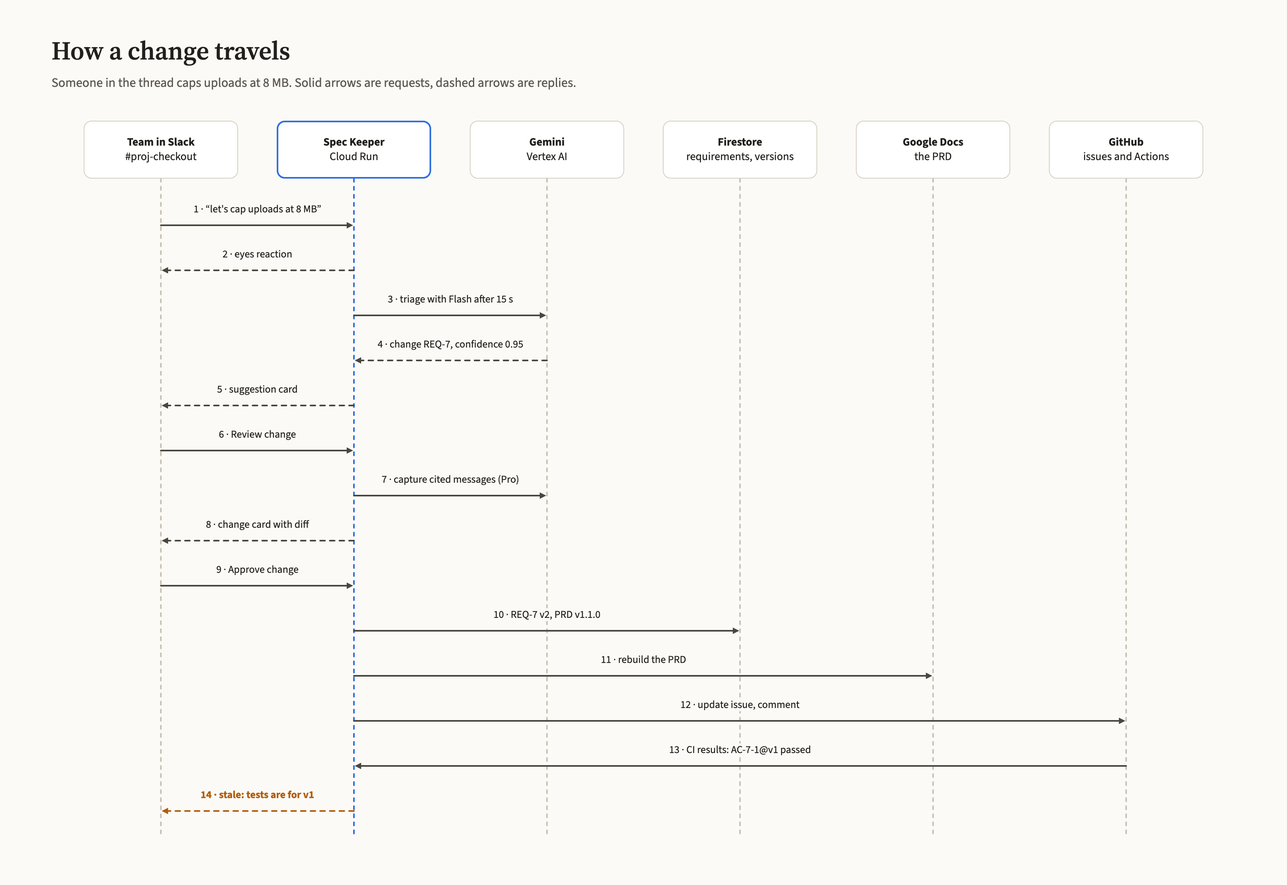
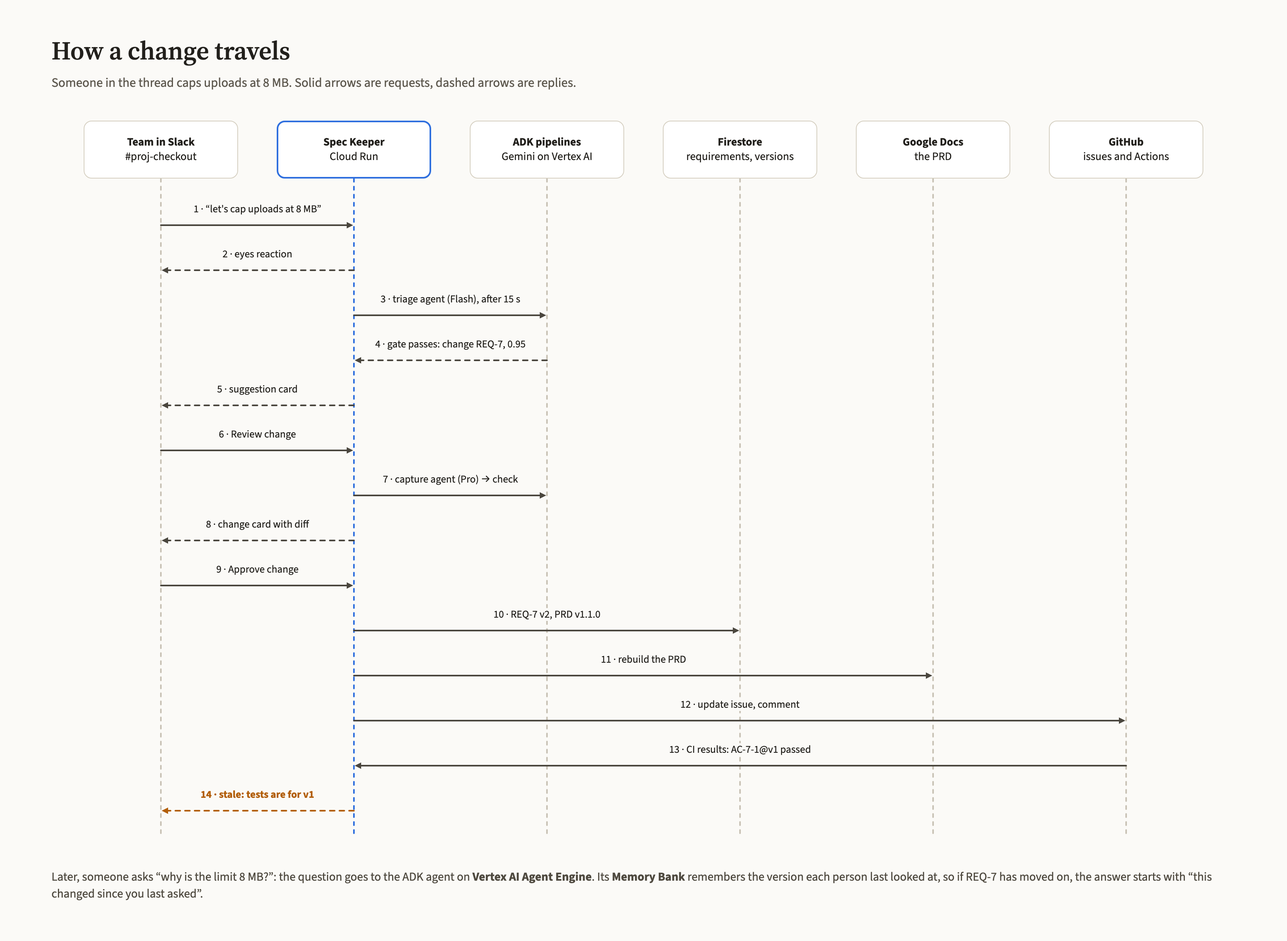
Diagrams and landing page: ADK pipelines, Agent Engine, Memory Bank, BigQuery, Cloud Trace
Architecture: capture and thread watch as ADK pipelines, "why?"
questions sent to Vertex AI Agent Engine (sessions, Memory Bank) with a
local fallback, guardrails as ADK callbacks, and BigQuery and Cloud
Trace among the services. Change sequence: steps 3, 4 and 7 name the
triage and capture agents and their gate and check steps, plus a note on
"why?" through Agent Engine and "changed since you last asked".

Rendered from the design sources at 2x. The landing page's image tags
get the new sizes, new alt text and ?v=2 (the images are cached for a
day).

diff --git a/docs/design/src/architecture/cloud-deployment.dc.html b/docs/design/src/architecture/cloud-deployment.dc.html
@@ -14,8 +14,8 @@
 body{margin:0}
 </style>
 </helmet>
-<div style="position: relative; width: 1488px; height: 1080px; background: #f7f8fa; font-family: 'IBM Plex Sans', system-ui, sans-serif; color: #1b1f2a; font-size: 14px; line-height: 18px">
-<div style="position: absolute; left: 416px; top: 168px; width: 616px; height: 848px; box-sizing: border-box; border: 2px dashed #9aa5b8; border-radius: 16px; background: #fbfcfe"></div>
+<div style="position: relative; width: 1488px; height: 1200px; background: #f7f8fa; font-family: 'IBM Plex Sans', system-ui, sans-serif; color: #1b1f2a; font-size: 14px; line-height: 18px">
+<div style="position: absolute; left: 416px; top: 168px; width: 616px; height: 968px; box-sizing: border-box; border: 2px dashed #9aa5b8; border-radius: 16px; background: #fbfcfe"></div>
 <div style="position: absolute; left: 448px; top: 220px; width: 552px; height: 600px; box-sizing: border-box; border: 2px solid {{accent}}; border-radius: 12px; background: #eef4fd"></div>
 
 <svg width="135" height="8" viewBox="0 0 135 8" preserveAspectRatio="none" style="position: absolute; left: 312px; top: 308px; width: 135px; height: 8px; overflow: visible; fill: none; stroke: #6b7385; stroke-width: 2; stroke-linecap: round; stroke-linejoin: round"><defs><marker id="dc-arrow-head-filled-1" orient="auto" markerWidth="5" markerHeight="5" refX="2" refY="2" overflow="visible"><path d="M0 0 L4 2 L0 4 Z" fill="#6b7385" stroke="none" style="stroke: none; fill: #6b7385; fill: context-stroke"/></marker></defs><path d="M 0 4 L 131 4" marker-end="url(#dc-arrow-head-filled-1)"></path></svg>
@@ -26,31 +26,33 @@ body{margin:0}
 <svg width="175" height="8" viewBox="0 0 175 8" preserveAspectRatio="none" style="position: absolute; left: 1000px; top: 324px; width: 175px; height: 8px; overflow: visible; fill: none; stroke: #6b7385; stroke-width: 2; stroke-linecap: round; stroke-linejoin: round"><defs><marker id="dc-arrow-head-filled-6" orient="auto" markerWidth="5" markerHeight="5" refX="2" refY="2" overflow="visible"><path d="M0 0 L4 2 L0 4 Z" fill="#6b7385" stroke="none" style="stroke: none; fill: #6b7385; fill: context-stroke"/></marker></defs><path d="M 0 4 L 171 4" marker-end="url(#dc-arrow-head-filled-6)"></path></svg>
 <svg width="175" height="8" viewBox="0 0 175 8" preserveAspectRatio="none" style="position: absolute; left: 1000px; top: 444px; width: 175px; height: 8px; overflow: visible; fill: none; stroke: #6b7385; stroke-width: 2; stroke-linecap: round; stroke-linejoin: round"><defs><marker id="dc-arrow-head-filled-7" orient="auto" markerWidth="5" markerHeight="5" refX="2" refY="2" overflow="visible"><path d="M0 0 L4 2 L0 4 Z" fill="#6b7385" stroke="none" style="stroke: none; fill: #6b7385; fill: context-stroke"/></marker></defs><path d="M 0 4 L 171 4" marker-end="url(#dc-arrow-head-filled-7)"></path></svg>
 <svg width="8" height="59" viewBox="0 0 8 59" preserveAspectRatio="none" style="position: absolute; left: 504px; top: 820px; width: 8px; height: 59px; overflow: visible; fill: none; stroke: #6b7385; stroke-width: 2; stroke-linecap: round; stroke-linejoin: round"><defs><marker id="dc-arrow-head-filled-8" orient="auto" markerWidth="5" markerHeight="5" refX="2" refY="2" overflow="visible"><path d="M0 0 L4 2 L0 4 Z" fill="#6b7385" stroke="none" style="stroke: none; fill: #6b7385; fill: context-stroke"/></marker></defs><path d="M 4 0 L 4 55" marker-end="url(#dc-arrow-head-filled-8)"></path></svg>
-<svg width="8" height="59" viewBox="0 0 8 59" preserveAspectRatio="none" style="position: absolute; left: 648px; top: 820px; width: 8px; height: 59px; overflow: visible; fill: none; stroke: #6b7385; stroke-width: 2; stroke-linecap: round; stroke-linejoin: round"><defs><marker id="dc-arrow-head-filled-9" orient="auto" markerWidth="5" markerHeight="5" refX="2" refY="2" overflow="visible"><path d="M0 0 L4 2 L0 4 Z" fill="#6b7385" stroke="none" style="stroke: none; fill: #6b7385; fill: context-stroke"/></marker></defs><path d="M 4 0 L 4 55" marker-end="url(#dc-arrow-head-filled-9)"></path></svg>
 <svg width="8" height="59" viewBox="0 0 8 59" preserveAspectRatio="none" style="position: absolute; left: 792px; top: 820px; width: 8px; height: 59px; overflow: visible; fill: none; stroke: #6b7385; stroke-width: 2; stroke-linecap: round; stroke-linejoin: round"><defs><marker id="dc-arrow-head-filled-10" orient="auto" markerWidth="5" markerHeight="5" refX="2" refY="2" overflow="visible"><path d="M0 0 L4 2 L0 4 Z" fill="#6b7385" stroke="none" style="stroke: none; fill: #6b7385; fill: context-stroke"/></marker></defs><path d="M 4 0 L 4 55" marker-end="url(#dc-arrow-head-filled-10)"></path></svg>
 <svg width="8" height="59" viewBox="0 0 8 59" preserveAspectRatio="none" style="position: absolute; left: 936px; top: 820px; width: 8px; height: 59px; overflow: visible; fill: none; stroke: #6b7385; stroke-width: 2; stroke-linecap: round; stroke-linejoin: round"><defs><marker id="dc-arrow-head-filled-11" orient="auto" markerWidth="5" markerHeight="5" refX="2" refY="2" overflow="visible"><path d="M0 0 L4 2 L0 4 Z" fill="#6b7385" stroke="none" style="stroke: none; fill: #6b7385; fill: context-stroke"/></marker></defs><path d="M 4 0 L 4 55" marker-end="url(#dc-arrow-head-filled-11)"></path></svg>
 
 <div style="position: absolute; left: 64px; top: 48px; font-size: 28px; line-height: 34px; font-weight: 700">Spec Keeper · cloud deployment</div>
-<div style="position: absolute; left: 64px; top: 92px; font-size: 16px; line-height: 22px; color: #4a5263">One Cloud Run service between Slack, Google Docs and GitHub. Gemini proposes; a person approves before anything is written.</div>
+<div style="position: absolute; left: 64px; top: 92px; font-size: 16px; line-height: 22px; color: #4a5263">Cloud Run and Vertex AI Agent Engine between Slack, Google Docs and GitHub. ADK agents propose; a person approves before anything is written.</div>
 
 <div style="position: absolute; left: 64px; top: 280px; width: 248px; height: 96px; box-sizing: border-box; padding: 12px 16px; display: flex; align-items: center; background: #ffffff; border: 1px solid #c9d1de; border-radius: 10px"><span><b>Slack workspace</b><br>#proj-checkout: the team's mentions, threads and button clicks</span></div>
 <div style="position: absolute; left: 64px; top: 400px; width: 248px; height: 96px; box-sizing: border-box; padding: 12px 16px; display: flex; align-items: center; background: #ffffff; border: 1px solid #c9d1de; border-radius: 10px"><span><b>Google Docs</b><br>Private meeting notes, shared with the service account</span></div>
 <div style="position: absolute; left: 64px; top: 520px; width: 248px; height: 96px; box-sizing: border-box; padding: 12px 16px; display: flex; align-items: center; background: #ffffff; border: 1px solid #c9d1de; border-radius: 10px"><span><b>GitHub Actions</b><br>Playwright tests named after criteria: AC-7-1@v1</span></div>
 <div style="position: absolute; left: 64px; top: 640px; width: 248px; height: 96px; box-sizing: border-box; padding: 12px 16px; display: flex; align-items: center; background: #ffffff; border: 1px solid #c9d1de; border-radius: 10px"><span><b>Browser</b><br>The landing page and test script for judges</span></div>
 
-<div style="position: absolute; left: 472px; top: 280px; width: 232px; height: 96px; box-sizing: border-box; padding: 12px 14px; display: flex; align-items: center; background: #ffffff; border: 1px solid #b8cdf3; border-radius: 10px"><span><b>Capture</b><br>Gemini 3.1 Pro: thread or notes to requirements with sources</span></div>
-<div style="position: absolute; left: 744px; top: 280px; width: 232px; height: 96px; box-sizing: border-box; padding: 12px 14px; display: flex; align-items: center; background: #ffffff; border: 1px solid #b8cdf3; border-radius: 10px"><span><b>Thread watch</b><br>Gemini 3.8 Flash: suggests a change after 15 s of quiet</span></div>
+<div style="position: absolute; left: 472px; top: 280px; width: 232px; height: 96px; box-sizing: border-box; padding: 12px 14px; display: flex; align-items: center; background: #ffffff; border: 1px solid #b8cdf3; border-radius: 10px"><span><b>Capture · ADK pipeline</b><br>Pro agent → citation check: requirements with sources</span></div>
+<div style="position: absolute; left: 744px; top: 280px; width: 232px; height: 96px; box-sizing: border-box; padding: 12px 14px; display: flex; align-items: center; background: #ffffff; border: 1px solid #b8cdf3; border-radius: 10px"><span><b>Thread watch · ADK pipeline</b><br>Flash agent → gate, after 15 s of quiet</span></div>
 <div style="position: absolute; left: 472px; top: 400px; width: 232px; height: 96px; box-sizing: border-box; padding: 12px 14px; display: flex; align-items: center; background: #ffffff; border: 1px solid #b8cdf3; border-radius: 10px"><span><b>Approval gate</b><br>Approve or dismiss; REQ and AC keys, versions</span></div>
 <div style="position: absolute; left: 744px; top: 400px; width: 232px; height: 96px; box-sizing: border-box; padding: 12px 14px; display: flex; align-items: center; background: #ffffff; border: 1px solid #b8cdf3; border-radius: 10px"><span><b>CI verification</b><br>Passing, failing or stale for every criterion</span></div>
-<div style="position: absolute; left: 472px; top: 520px; width: 232px; height: 96px; box-sizing: border-box; padding: 12px 14px; display: flex; align-items: center; background: #ffffff; border: 1px solid #b8cdf3; border-radius: 10px"><span><b>“Why?” agent</b><br>Google ADK, read-only tools, answers with sources</span></div>
+<div style="position: absolute; left: 472px; top: 520px; width: 232px; height: 96px; box-sizing: border-box; padding: 12px 14px; display: flex; align-items: center; background: #ffffff; border: 1px solid #b8cdf3; border-radius: 10px"><span><b>“Why?” questions</b><br>To Agent Engine; a local ADK agent if it fails</span></div>
 <div style="position: absolute; left: 744px; top: 520px; width: 232px; height: 96px; box-sizing: border-box; padding: 12px 14px; display: flex; align-items: center; background: #ffffff; border: 1px solid #b8cdf3; border-radius: 10px"><span><b>PRD builder</b><br>Rebuilds the Google Docs PRD as one page</span></div>
-<div style="position: absolute; left: 472px; top: 640px; width: 504px; height: 64px; box-sizing: border-box; padding: 10px 14px; display: flex; align-items: center; background: #ffffff; border: 1px dashed #8fa9d8; border-radius: 10px; font-size: 13px"><span><b>Guardrails</b> · fenced prompts · escaped output · approver list · rate limits · token budget · audit logs</span></div>
+<div style="position: absolute; left: 472px; top: 640px; width: 504px; height: 64px; box-sizing: border-box; padding: 10px 14px; display: flex; align-items: center; background: #ffffff; border: 1px dashed #8fa9d8; border-radius: 10px; font-size: 13px"><span><b>Guardrails</b> · ADK callbacks: token budget, tool audit, fallback model · fenced prompts · escaped output · approver list · rate limits</span></div>
 <div style="position: absolute; left: 472px; top: 724px; width: 504px; height: 64px; box-sizing: border-box; padding: 10px 14px; display: flex; align-items: center; background: #ffffff; border: 1px dashed #8fa9d8; border-radius: 10px; font-size: 13px"><span><b>Endpoints</b> · /slack/events · /ci · / · /health · FastAPI and Slack Bolt</span></div>
 
-<div style="position: absolute; left: 448px; top: 880px; width: 120px; height: 96px; box-sizing: border-box; padding: 8px 10px; display: flex; align-items: center; background: #fff7e6; border: 1px solid #dfbd72; border-radius: 10px; font-size: 13px; line-height: 17px"><span><b>Vertex AI</b><br>Gemini Pro and Flash</span></div>
-<div style="position: absolute; left: 592px; top: 880px; width: 120px; height: 96px; box-sizing: border-box; padding: 8px 10px; display: flex; align-items: center; background: #fff7e6; border: 1px solid #dfbd72; border-radius: 10px; font-size: 13px; line-height: 17px"><span><b>Firestore</b><br>Requirements, proposals</span></div>
-<div style="position: absolute; left: 736px; top: 880px; width: 120px; height: 96px; box-sizing: border-box; padding: 8px 10px; display: flex; align-items: center; background: #fff7e6; border: 1px solid #dfbd72; border-radius: 10px; font-size: 13px; line-height: 17px"><span><b>Secret Manager</b><br>Tokens and secrets</span></div>
-<div style="position: absolute; left: 880px; top: 880px; width: 120px; height: 96px; box-sizing: border-box; padding: 8px 10px; display: flex; align-items: center; background: #fff7e6; border: 1px solid #dfbd72; border-radius: 10px; font-size: 13px; line-height: 17px"><span><b>Cloud Logging</b><br>Audit events, alerts</span></div>
+<div style="position: absolute; left: 448px; top: 880px; width: 264px; height: 96px; box-sizing: border-box; padding: 10px 14px; display: flex; align-items: center; background: #f1ecff; border: 1.5px solid #8f72e8; border-radius: 10px; font-size: 13px; line-height: 17px"><span><b>Vertex AI Agent Engine</b><br>“Why?” agent (ADK) with managed sessions and Memory Bank: what each person last saw</span></div>
+<div style="position: absolute; left: 736px; top: 880px; width: 120px; height: 96px; box-sizing: border-box; padding: 8px 10px; display: flex; align-items: center; background: #fff7e6; border: 1px solid #dfbd72; border-radius: 10px; font-size: 13px; line-height: 17px"><span><b>Vertex AI</b><br>Gemini 3.1 Pro and 3.8 Flash</span></div>
+<div style="position: absolute; left: 880px; top: 880px; width: 120px; height: 96px; box-sizing: border-box; padding: 8px 10px; display: flex; align-items: center; background: #fff7e6; border: 1px solid #dfbd72; border-radius: 10px; font-size: 13px; line-height: 17px"><span><b>Firestore</b><br>Requirements, proposals</span></div>
+<div style="position: absolute; left: 448px; top: 1000px; width: 120px; height: 96px; box-sizing: border-box; padding: 8px 10px; display: flex; align-items: center; background: #fff7e6; border: 1px solid #dfbd72; border-radius: 10px; font-size: 13px; line-height: 17px"><span><b>Secret Manager</b><br>Tokens and secrets</span></div>
+<div style="position: absolute; left: 592px; top: 1000px; width: 120px; height: 96px; box-sizing: border-box; padding: 8px 10px; display: flex; align-items: center; background: #fff7e6; border: 1px solid #dfbd72; border-radius: 10px; font-size: 13px; line-height: 17px"><span><b>Cloud Logging</b><br>Audit events, alerts</span></div>
+<div style="position: absolute; left: 736px; top: 1000px; width: 120px; height: 96px; box-sizing: border-box; padding: 8px 10px; display: flex; align-items: center; background: #fff7e6; border: 1px solid #dfbd72; border-radius: 10px; font-size: 13px; line-height: 17px"><span><b>BigQuery</b><br>Agent analytics: tokens, latency</span></div>
+<div style="position: absolute; left: 880px; top: 1000px; width: 120px; height: 96px; box-sizing: border-box; padding: 8px 10px; display: flex; align-items: center; background: #fff7e6; border: 1px solid #dfbd72; border-radius: 10px; font-size: 13px; line-height: 17px"><span><b>Cloud Trace</b><br>One trace per question</span></div>
 
 <div style="position: absolute; left: 1176px; top: 280px; width: 248px; height: 96px; box-sizing: border-box; padding: 12px 16px; display: flex; align-items: center; background: #ecf7f0; border: 1px solid #86c79a; border-radius: 10px"><span><b>Google Docs · PRD</b><br>Summary, criteria tables, change history</span></div>
 <div style="position: absolute; left: 1176px; top: 400px; width: 248px; height: 96px; box-sizing: border-box; padding: 12px 16px; display: flex; align-items: center; background: #ecf7f0; border: 1px solid #86c79a; border-radius: 10px"><span><b>GitHub issues</b><br>One per requirement, CI results as comments</span></div>
@@ -66,7 +68,7 @@ body{margin:0}
 <div style="position: absolute; left: 1040px; top: 420px; width: 128px; text-align: center; font-size: 13px; line-height: 16px; color: #4a5263">issues · comments</div>
 </div>
 </x-dc>
-<script type="text/x-dc" data-dc-script data-props='{"accent":{"editor":"color","default":"#2f6fde","options":["#2f6fde","#1a7f5a","#7c4dff"]},"$preview":{"width":1488,"height":1080}}'>
+<script type="text/x-dc" data-dc-script data-props='{"accent":{"editor":"color","default":"#2f6fde","options":["#2f6fde","#1a7f5a","#7c4dff"]},"$preview":{"width":1488,"height":1200}}'>
 class Component extends DCLogic {
   renderVals() {
     return { accent: this.props.accent ?? '#2f6fde' };

diff --git a/docs/design/src/architecture/how-a-change-travels.dc.html b/docs/design/src/architecture/how-a-change-travels.dc.html
@@ -14,7 +14,7 @@
 body{margin:0}
 </style>
 </helmet>
-<div style="position: relative; width: 1600px; height: 1100px; background: #fbfaf7; font-family: 'Source Sans 3', system-ui, sans-serif; color: #22201c; font-size: 14px; line-height: 18px">
+<div style="position: relative; width: 1600px; height: 1170px; background: #fbfaf7; font-family: 'Source Sans 3', system-ui, sans-serif; color: #22201c; font-size: 14px; line-height: 18px">
 <svg width="8" height="814" viewBox="0 0 8 814" preserveAspectRatio="none" style="position: absolute; left: 196px; top: 222px; width: 8px; height: 814px; overflow: visible; fill: none; stroke: #c9c3b6; stroke-width: 2; stroke-dasharray: 4 6; stroke-linecap: round"><path d="M 4 0 L 4 814"></path></svg>
 <svg width="8" height="814" viewBox="0 0 8 814" preserveAspectRatio="none" style="position: absolute; left: 436px; top: 222px; width: 8px; height: 814px; overflow: visible; fill: none; stroke: {{accent}}; stroke-width: 2; stroke-dasharray: 4 6; stroke-linecap: round"><path d="M 4 0 L 4 814"></path></svg>
 <svg width="8" height="814" viewBox="0 0 8 814" preserveAspectRatio="none" style="position: absolute; left: 676px; top: 222px; width: 8px; height: 814px; overflow: visible; fill: none; stroke: #c9c3b6; stroke-width: 2; stroke-dasharray: 4 6; stroke-linecap: round"><path d="M 4 0 L 4 814"></path></svg>
@@ -42,18 +42,18 @@ body{margin:0}
 
 <div style="position: absolute; left: 104px; top: 150px; width: 192px; height: 72px; box-sizing: border-box; padding: 8px; display: flex; align-items: center; justify-content: center; text-align: center; background: #ffffff; border: 1px solid #d6d0c2; border-radius: 10px"><span><b>Team in Slack</b><br>#proj-checkout</span></div>
 <div style="position: absolute; left: 344px; top: 150px; width: 192px; height: 72px; box-sizing: border-box; padding: 8px; display: flex; align-items: center; justify-content: center; text-align: center; background: #ffffff; border: 2px solid {{accent}}; border-radius: 10px"><span><b>Spec Keeper</b><br>Cloud Run</span></div>
-<div style="position: absolute; left: 584px; top: 150px; width: 192px; height: 72px; box-sizing: border-box; padding: 8px; display: flex; align-items: center; justify-content: center; text-align: center; background: #ffffff; border: 1px solid #d6d0c2; border-radius: 10px"><span><b>Gemini</b><br>Vertex AI</span></div>
+<div style="position: absolute; left: 584px; top: 150px; width: 192px; height: 72px; box-sizing: border-box; padding: 8px; display: flex; align-items: center; justify-content: center; text-align: center; background: #ffffff; border: 1px solid #d6d0c2; border-radius: 10px"><span><b>ADK pipelines</b><br>Gemini on Vertex AI</span></div>
 <div style="position: absolute; left: 824px; top: 150px; width: 192px; height: 72px; box-sizing: border-box; padding: 8px; display: flex; align-items: center; justify-content: center; text-align: center; background: #ffffff; border: 1px solid #d6d0c2; border-radius: 10px"><span><b>Firestore</b><br>requirements, versions</span></div>
 <div style="position: absolute; left: 1064px; top: 150px; width: 192px; height: 72px; box-sizing: border-box; padding: 8px; display: flex; align-items: center; justify-content: center; text-align: center; background: #ffffff; border: 1px solid #d6d0c2; border-radius: 10px"><span><b>Google Docs</b><br>the PRD</span></div>
 <div style="position: absolute; left: 1304px; top: 150px; width: 192px; height: 72px; box-sizing: border-box; padding: 8px; display: flex; align-items: center; justify-content: center; text-align: center; background: #ffffff; border: 1px solid #d6d0c2; border-radius: 10px"><span><b>GitHub</b><br>issues and Actions</span></div>
 
 <div style="position: absolute; left: 204px; top: 252px; width: 232px; text-align: center; font-size: 13px; line-height: 16px; background: #fbfaf7">1 · “let's cap uploads at 8 MB”</div>
 <div style="position: absolute; left: 252px; top: 308px; width: 136px; text-align: center; font-size: 13px; line-height: 16px; background: #fbfaf7">2 · eyes reaction</div>
-<div style="position: absolute; left: 444px; top: 364px; width: 232px; text-align: center; font-size: 13px; line-height: 16px; background: #fbfaf7">3 · triage with Flash after 15 s</div>
-<div style="position: absolute; left: 442px; top: 420px; width: 236px; text-align: center; font-size: 13px; line-height: 16px; background: #fbfaf7">4 · change REQ-7, confidence 0.95</div>
+<div style="position: absolute; left: 444px; top: 364px; width: 232px; text-align: center; font-size: 13px; line-height: 16px; background: #fbfaf7">3 · triage agent (Flash), after 15 s</div>
+<div style="position: absolute; left: 444px; top: 420px; width: 232px; text-align: center; font-size: 13px; line-height: 16px; background: #fbfaf7">4 · gate passes: change REQ-7, 0.95</div>
 <div style="position: absolute; left: 244px; top: 476px; width: 152px; text-align: center; font-size: 13px; line-height: 16px; background: #fbfaf7">5 · suggestion card</div>
 <div style="position: absolute; left: 252px; top: 532px; width: 136px; text-align: center; font-size: 13px; line-height: 16px; background: #fbfaf7">6 · Review change</div>
-<div style="position: absolute; left: 444px; top: 588px; width: 232px; text-align: center; font-size: 13px; line-height: 16px; background: #fbfaf7">7 · capture cited messages (Pro)</div>
+<div style="position: absolute; left: 444px; top: 588px; width: 232px; text-align: center; font-size: 13px; line-height: 16px; background: #fbfaf7">7 · capture agent (Pro) → check</div>
 <div style="position: absolute; left: 228px; top: 644px; width: 184px; text-align: center; font-size: 13px; line-height: 16px; background: #fbfaf7">8 · change card with diff</div>
 <div style="position: absolute; left: 248px; top: 700px; width: 144px; text-align: center; font-size: 13px; line-height: 16px; background: #fbfaf7">9 · Approve change</div>
 <div style="position: absolute; left: 584px; top: 756px; width: 192px; text-align: center; font-size: 13px; line-height: 16px; background: #fbfaf7">10 · REQ-7 v2, PRD v1.1.0</div>
@@ -61,9 +61,10 @@ body{margin:0}
 <div style="position: absolute; left: 820px; top: 868px; width: 200px; text-align: center; font-size: 13px; line-height: 16px; background: #fbfaf7">12 · update issue, comment</div>
 <div style="position: absolute; left: 796px; top: 924px; width: 248px; text-align: center; font-size: 13px; line-height: 16px; background: #fbfaf7">13 · CI results: AC-7-1@v1 passed</div>
 <div style="position: absolute; left: 216px; top: 980px; width: 208px; text-align: center; font-size: 13px; line-height: 16px; font-weight: 700; color: #b25e09; background: #fbfaf7">14 · stale: tests are for v1</div>
+<div style="position: absolute; left: 64px; top: 1080px; width: 1472px; font-size: 15px; line-height: 21px; color: #4f4a40">Later, someone asks “why is the limit 8 MB?”: the question goes to the ADK agent on <b>Vertex AI Agent Engine</b>. Its <b>Memory Bank</b> remembers the version each person last looked at, so if REQ-7 has moved on, the answer starts with “this changed since you last asked”.</div>
 </div>
 </x-dc>
-<script type="text/x-dc" data-dc-script data-props='{"accent":{"editor":"color","default":"#2f6fde","options":["#2f6fde","#1a7f5a","#7c4dff"]},"warn":{"editor":"color","default":"#b25e09"},"$preview":{"width":1600,"height":1100}}'>
+<script type="text/x-dc" data-dc-script data-props='{"accent":{"editor":"color","default":"#2f6fde","options":["#2f6fde","#1a7f5a","#7c4dff"]},"warn":{"editor":"color","default":"#b25e09"},"$preview":{"width":1600,"height":1170}}'>
 class Component extends DCLogic {
   renderVals() {
     return { accent: this.props.accent ?? '#2f6fde', warn: this.props.warn ?? '#b25e09' };

diff --git a/src/speckeeper/web/index.html b/src/speckeeper/web/index.html
@@ -131,7 +131,7 @@
             </tbody>
           </table>
         </div>
-        <a href="/change-sequence.png"><img class="fig" src="/change-sequence.png" width="1600" height="1100" loading="lazy" alt="How a change travels, in 14 steps. 1, the team says in Slack: let's cap uploads at 8 MB. 2, Spec Keeper adds an eyes reaction. 3 and 4, Gemini Flash triages the thread and says it changes REQ-7, confidence 0.95. 5, a suggestion card appears. 6, someone clicks Review change. 7, Gemini Pro captures the cited messages. 8, a change card with the diff appears. 9, someone approves. 10, Firestore records REQ-7 v2 and PRD v1.1.0. 11, the PRD in Google Docs is rebuilt. 12, the GitHub issue is updated. 13, CI reports AC-7-1@v1 passed. 14, Spec Keeper reports those tests as stale, because they were written for v1."></a>
+        <a href="/change-sequence.png"><img class="fig" src="/change-sequence.png?v=2" width="1600" height="1170" loading="lazy" alt="How a change travels, in 14 steps. 1, the team says in Slack: let's cap uploads at 8 MB. 2, Spec Keeper adds an eyes reaction. 3 and 4, the ADK triage agent on Gemini Flash looks at the thread and its gate step lets through a change to REQ-7, confidence 0.95. 5, a suggestion card appears. 6, someone clicks Review change. 7, the ADK capture agent on Gemini Pro captures the cited messages and a citation check drops anything uncited. 8, a change card with the diff appears. 9, someone approves. 10, Firestore records REQ-7 v2 and PRD v1.1.0. 11, the PRD in Google Docs is rebuilt. 12, the GitHub issue is updated. 13, CI reports AC-7-1@v1 passed. 14, Spec Keeper reports those tests as stale, because they were written for v1. Later, a why question goes to the agent on Vertex AI Agent Engine, whose Memory Bank lets it say the requirement changed since that person last asked."></a>
       </div>
     </div>
   </section>
@@ -181,7 +181,7 @@
           </tbody>
         </table>
       </div>
-      <a href="/architecture.png"><img class="fig" src="/architecture.png" width="1488" height="1080" loading="lazy" style="border: 2px solid #111111" alt="Cloud deployment. Slack, the meeting notes in Google Docs, GitHub Actions and a browser feed one Cloud Run service in a Google Cloud project. Inside it: capture with Gemini 3.1 Pro, thread watch with Gemini 3.8 Flash, the approval gate, CI verification, the ADK question agent and the PRD builder, behind guardrails. It uses Vertex AI, Firestore, Secret Manager and Cloud Logging, and writes the PRD in Google Docs and GitHub issues."></a>
+      <a href="/architecture.png"><img class="fig" src="/architecture.png?v=2" width="1488" height="1200" loading="lazy" style="border: 2px solid #111111" alt="Cloud deployment. Slack, the meeting notes in Google Docs, GitHub Actions and a browser feed one Cloud Run service in a Google Cloud project. Inside it: capture as an ADK pipeline (a Gemini Pro agent, then a citation check), thread watch as an ADK pipeline (a Gemini Flash agent, then a gate), the approval gate, CI verification, the PRD builder, and why questions sent to Vertex AI Agent Engine with a local ADK agent as fallback, behind guardrails that are ADK callbacks. Agent Engine runs the why agent with managed sessions and Memory Bank. The service also uses Vertex AI, Firestore, Secret Manager, Cloud Logging, BigQuery and Cloud Trace, and writes the PRD in Google Docs and GitHub issues."></a>
     </div>
   </section>
 

diff --git a/docs/design/README.md b/docs/design/README.md
@@ -10,4 +10,5 @@ The designs that are live, with their sources.
 
 `src/` holds each design's source as a design-canvas file (`.dc.html`). They were made in a Claude design
 canvas and need its runtime to open as designs; the PNGs are the readable versions. The landing page
-preview was taken on 15 Oct 2026; the live page is the one to keep up to date.
+preview was taken on 15 Oct 2026; the live page is the one to keep up to date. The two architecture
+diagrams were updated on 16 Oct 2026 for the ADK pipelines, Agent Engine, Memory Bank, BigQuery and Cloud Trace.
